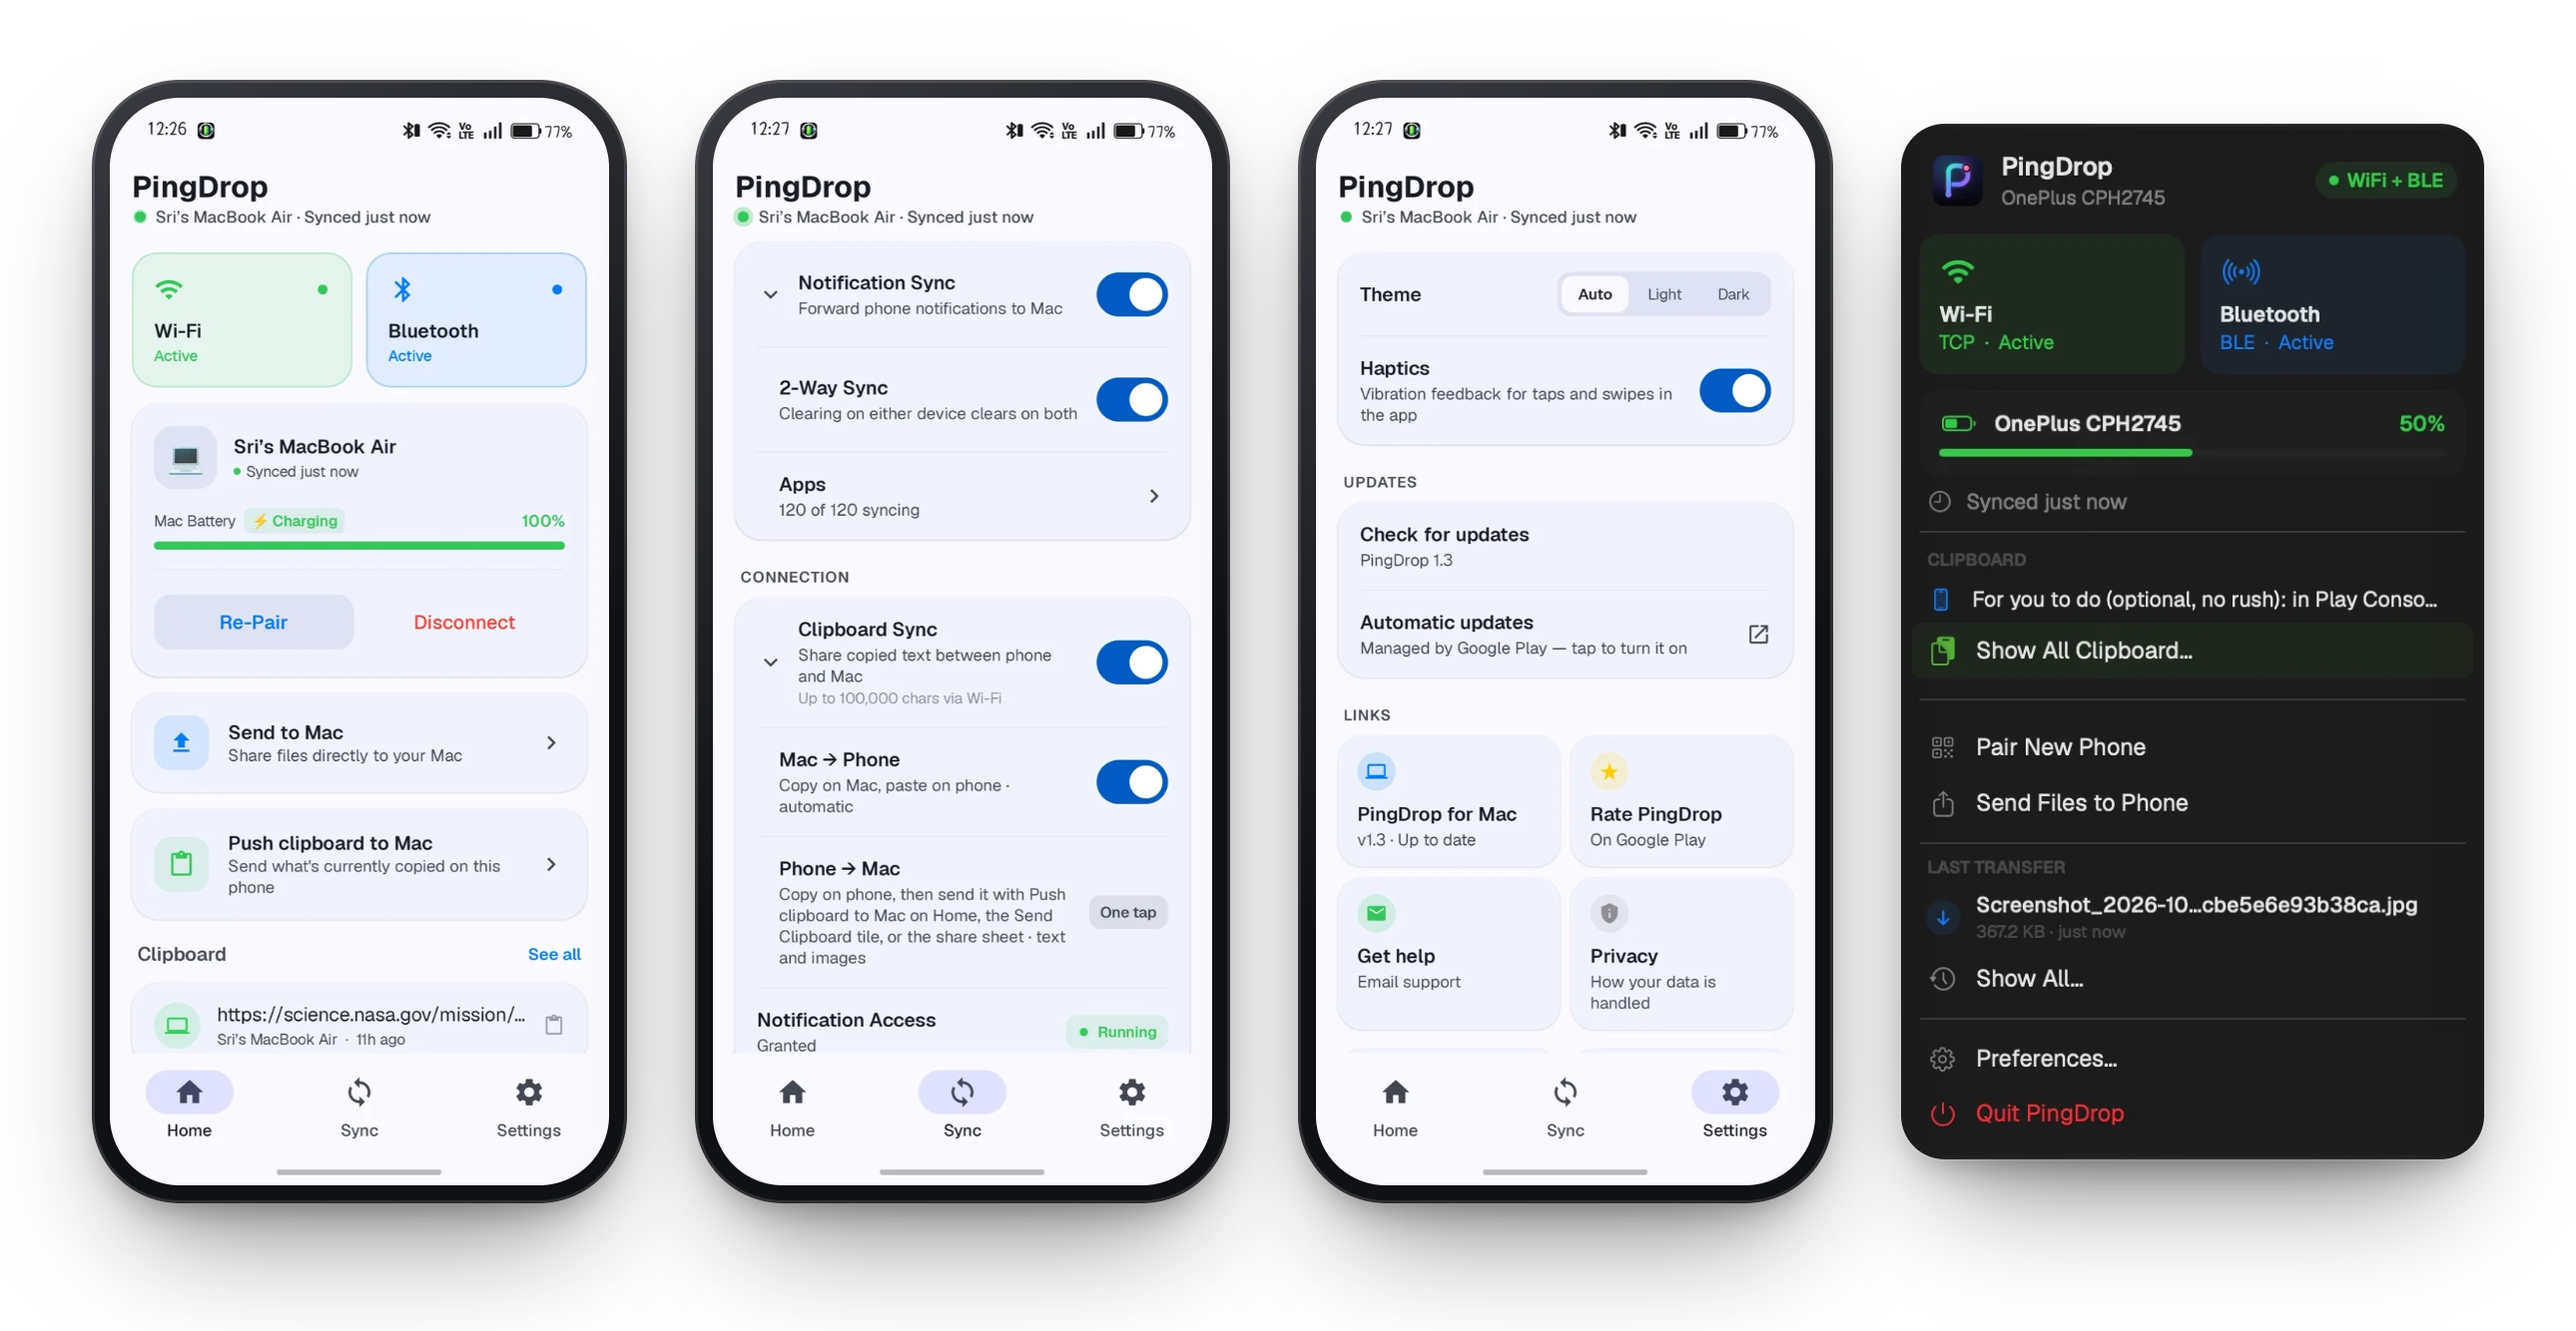
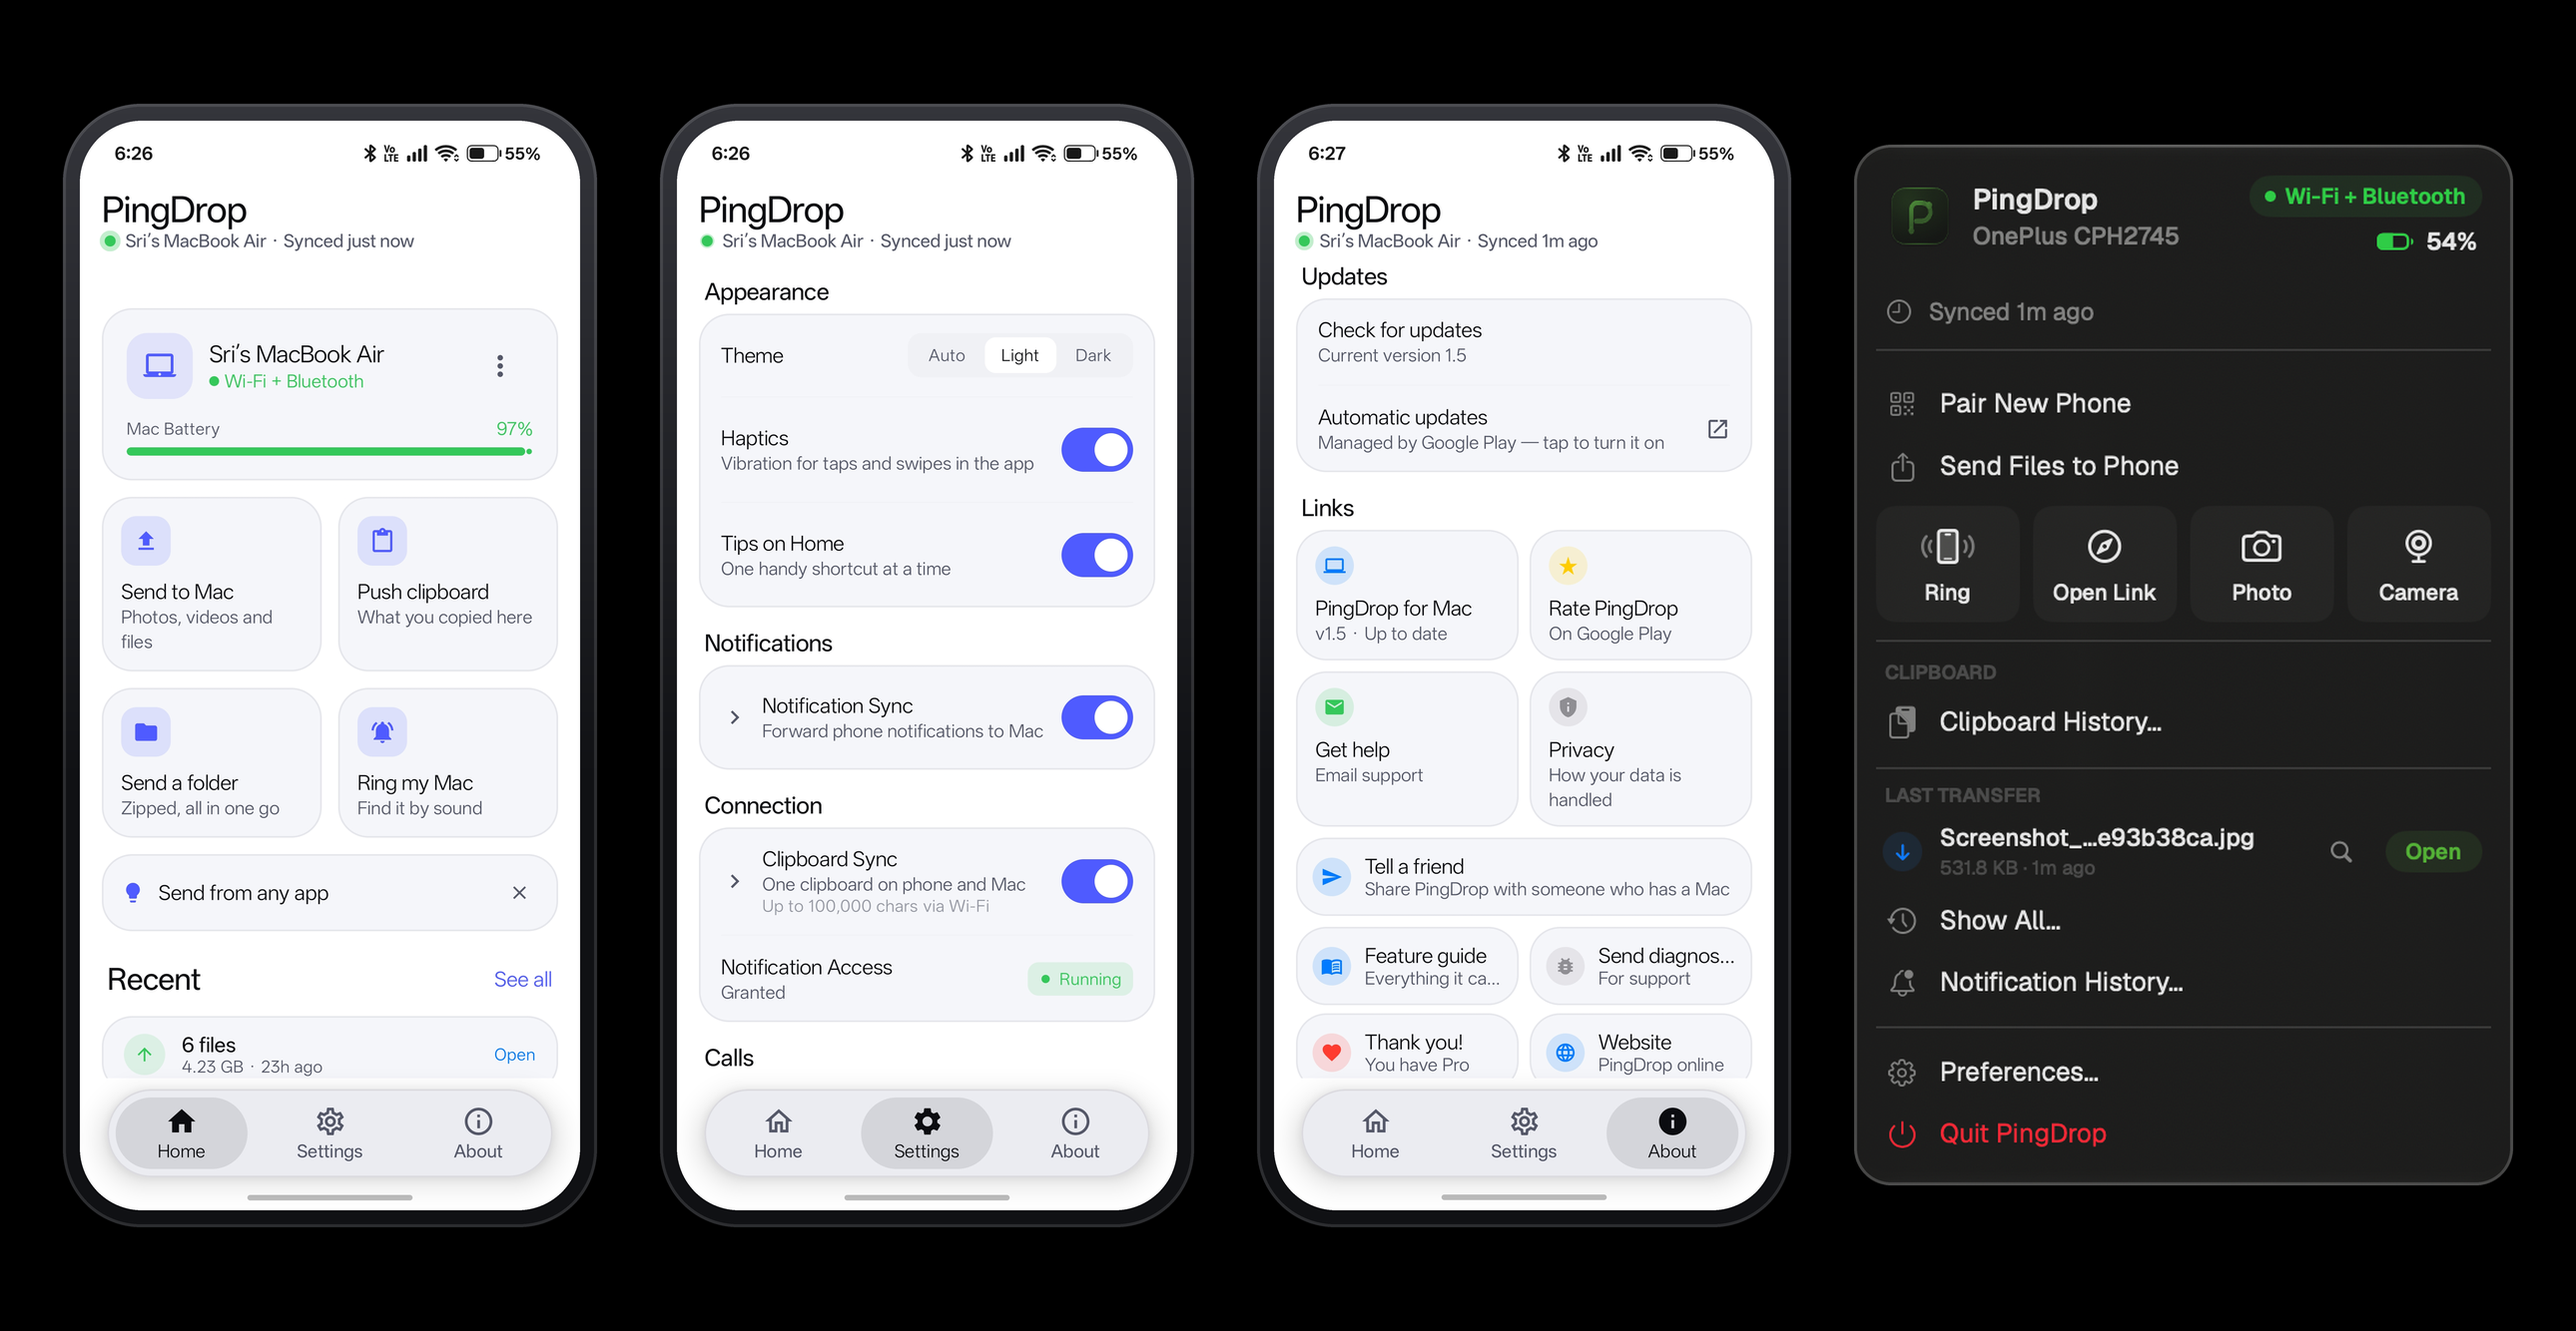
Screenshots: PingDrop 1.5 — Home, Settings and About on Android, and the new Mac menu bar panel

diff --git a/README.md b/README.md
@@ -92,9 +92,9 @@ installs its updates from Google Play, and each tells you when the other is out 
 ## Screenshots
 
 <p align="center">
-  <img src="screenshots/screens.png" width="900" alt="PingDrop on Android — the Home, Sync and Settings tabs — and the PingDrop panel in the Mac menu bar">
+  <img src="screenshots/screens.png" width="900" alt="PingDrop on Android — the Home, Settings and About tabs — and the PingDrop panel in the Mac menu bar">
   <br>
-  <sub><b>Home</b> · <b>Sync</b> · <b>Settings</b> on Android &nbsp;—&nbsp; the <b>menu bar panel</b> on the Mac</sub>
+  <sub><b>Home</b> · <b>Settings</b> · <b>About</b> on Android &nbsp;—&nbsp; the <b>menu bar panel</b> on the Mac</sub>
 </p>
 
 ## Download
